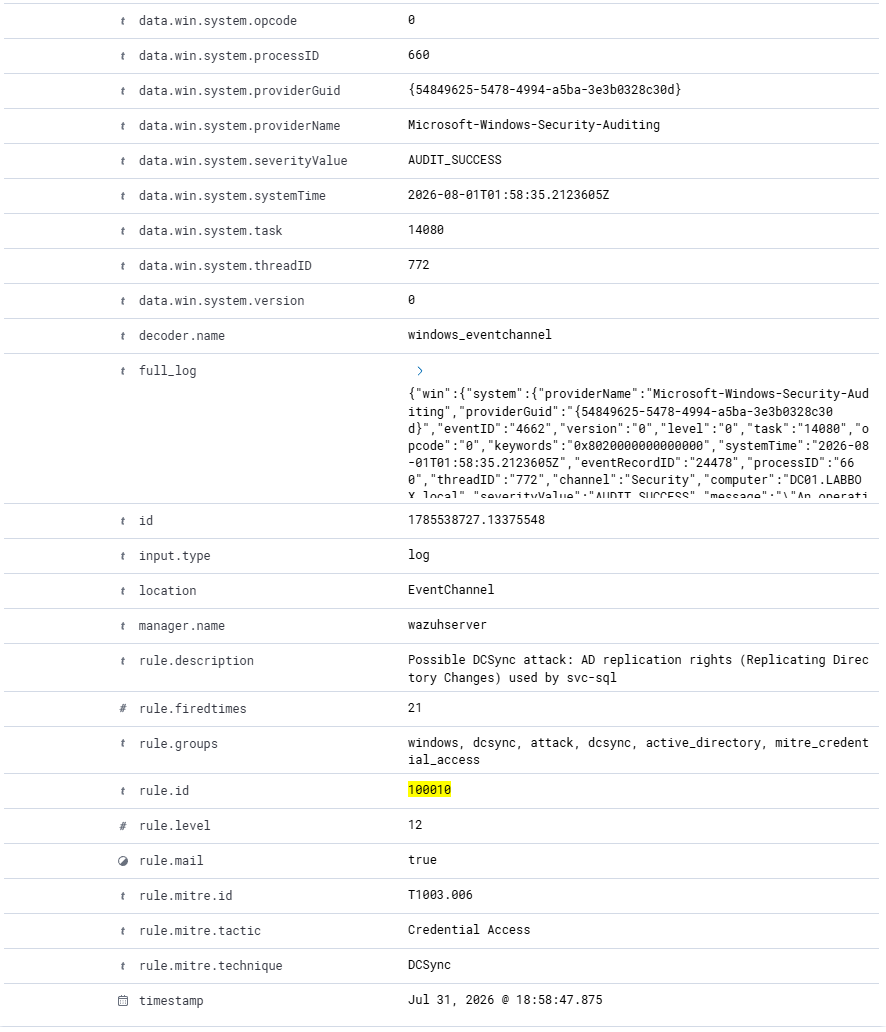
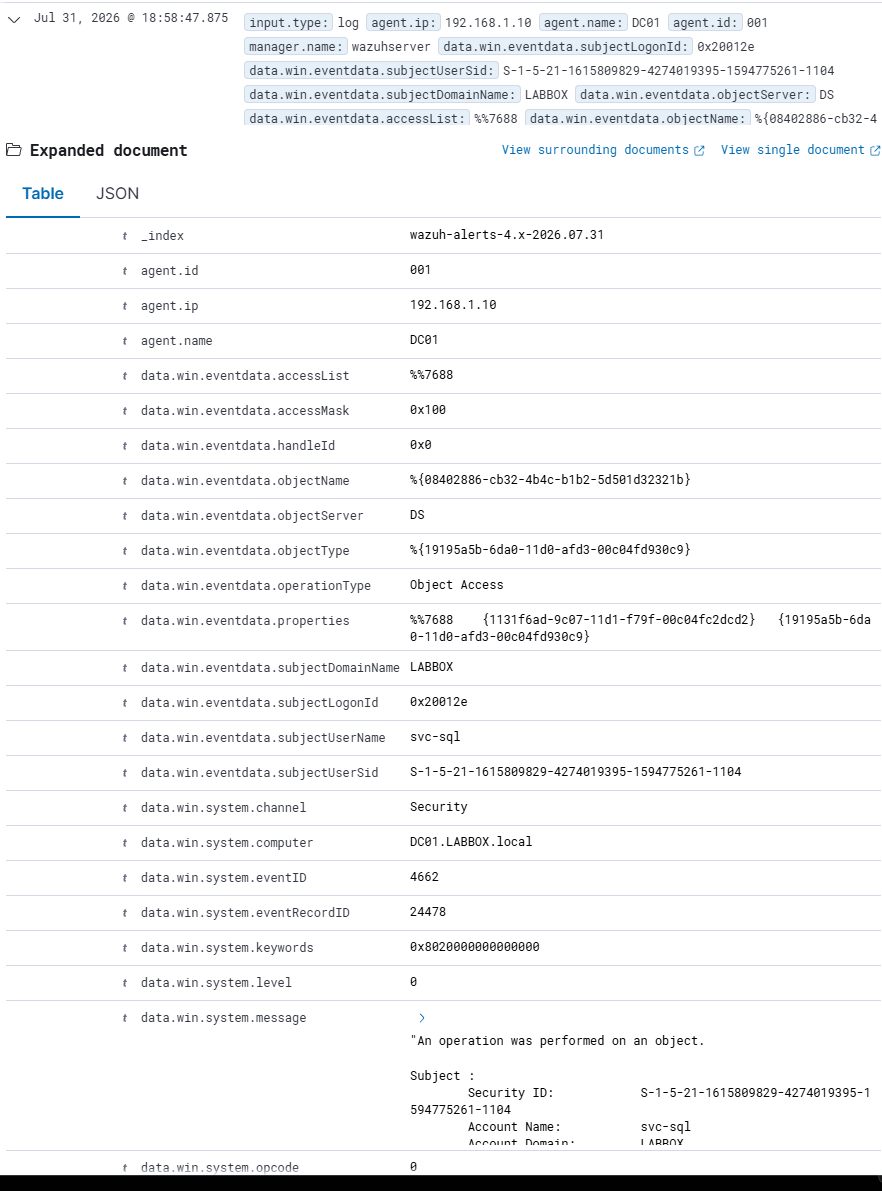
enhance readme with details

Changed region(s): [[0.0, 0.0, 1.0, 1.0], [0.7347, 0.7132, 0.9796, 0.7442]]

diff --git a/readme.md b/readme.md
@@ -27,7 +27,12 @@ The part I'm most happy with is the detection at the end. Wazuh's default rules 
 
 Every VM has two network adapters. One is host-only on `192.168.1.0/24` for the isolated lab network, and the other is NAT for internet access when I need to install tooling. That way the attack traffic stays contained but I can still pull packages down.
 
+<details>
+<summary>View Lab Architecture diagram</summary>
+
 ![Lab Architecture](Screenshots/picture1.png)
+
+</details>
 
 ---
 
@@ -51,17 +56,32 @@ Starting from the phished `j.rivera` account, I pulled the full domain graph wit
 bloodhound-python -u j.rivera -p 'Summer2025!' -d labbox.local -ns 192.168.1.10 -c All --zip
 ```
 
+<details>
+<summary>View BloodHound Collection results</summary>
+
 ![BloodHound Collection](Screenshots/picture2.png)
+
+</details>
 
 This came back with 2 computers, 7 users, 52 groups, and 3 OUs.
 
 I ran BloodHound's "shortest path" query from `j.rivera` to Domain Admins, and it came back empty. That's actually correct, not a failure. BloodHound maps ACL and permission relationships, things like group membership or GenericAll rights, and `j.rivera` doesn't have any of those. The entire reason `j.rivera` matters here is just that it's *any* authenticated domain user, which is all Kerberoasting requires. The real escalation happens by cracking a password offline, and that's not something BloodHound can represent as a graph edge.
 
+<details>
+<summary>View BloodHound Query results</summary>
+
 ![BloodHound Query - No Path](Screenshots/picture3.png)
+
+</details>
 
 Once `svc-sql` is compromised, the picture changes completely. After re-collecting with a fresh scan, BloodHound shows a real path from `svc-sql` straight to Domain Admins, through a GenericWrite right on DC01's computer object and a CoerceToTGT relationship into the domain:
 
+<details>
+<summary>View BloodHound path after svc-sql compromise</summary>
+
 ![BloodHound - svc-sql to Domain Admins](Screenshots/picture4.png)
+
+</details>
 
 ---
 
@@ -74,8 +94,13 @@ impacket-GetUserSPNs labbox.local/j.rivera:'Summer2025!' \
   -dc-ip 192.168.1.10 -request -outputfile kerberoast.hash
 ```
 
+<details>
+<summary>View Kerberoasting attack output</summary>
+
 ![Kerberoasting - SPN Request](Screenshots/picture5pt1.png)
 ![Kerberoasting - Hash Output](Screenshots/picture5pt2.png)
+
+</details>
 
 The hash fell in under a second against `rockyou.txt`, since the service account was set up with a weak password (`Welcome1`).
 
@@ -83,7 +108,12 @@ The hash fell in under a second against `rockyou.txt`, since the service account
 john --wordlist=/usr/share/wordlists/rockyou.txt kerberoast.hash
 ```
 
+<details>
+<summary>View hash cracking results</summary>
+
 ![Hash Cracking - Password Found](Screenshots/picture6.png)
+
+</details>
 
 ---
 
@@ -97,7 +127,12 @@ impacket-psexec -hashes :<NT_HASH> LABBOX/svc-sql@192.168.1.20
 
 That gave me a SYSTEM shell on WS01. Worth noting: Windows Defender and Tamper Protection blocked the payload on the first few tries, which was a good reminder that built-in AV does catch this, and I had to work around it to get the shell.
 
+<details>
+<summary>View Pass-the-Hash shell access</summary>
+
 ![Pass-the-Hash - SYSTEM Shell](Screenshots/picture7.png)
+
+</details>
 
 ---
 
@@ -111,8 +146,13 @@ impacket-secretsdump -hashes :<NT_HASH> LABBOX/svc-sql@192.168.1.10
 
 At this point the whole domain is compromised. Every user, service, and machine account hash is dumped.
 
+<details>
+<summary>View DCSync credential dump</summary>
+
 ![DCSync - Hash Dump](Screenshots/picture8pt1.png)
 ![DCSync - Credentials](Screenshots/picture8pt2.png)
+
+</details>
 
 ---
 
@@ -128,7 +168,12 @@ Running the attacks is only part of it. I went back through each technique and c
 | Pass-the-Hash | **4624** | Logon Type 3 with NTLM as the auth package |
 | DCSync | **4662** | Object access using a replication-rights GUID `{1131f6aa-...}` |
 
+<details>
+<summary>View Windows event signatures</summary>
+
 ![Windows Event Signatures](Screenshots/picture9.png)
+
+</details>
 
 ---
 
@@ -194,9 +239,14 @@ sudo systemctl restart wazuh-manager
 
 When I ran the DCSync attack, the rule fired a burst of level-12 alerts all inside a roughly 3-second window, which lines up with how fast `secretsdump` hammers out its replication requests. It named `svc-sql` as the account responsible and tagged the alert with MITRE T1003.006.
 
+<details>
+<summary>View Wazuh DCSync alerts</summary>
+
 ![Wazuh DCSync Alert - Part 1](Screenshots/picture10pt1.png)
 ![Wazuh DCSync Alert - Part 2](Screenshots/picture10pt2.png)
 ![Wazuh DCSync Alert - Part 3](Screenshots/picture10pt3.png)
+
+</details>
 
 ---
 
